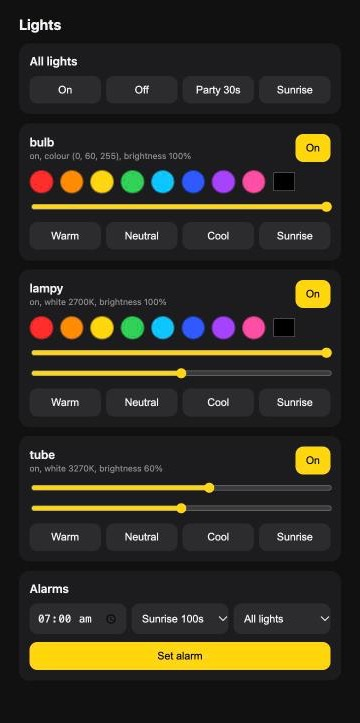
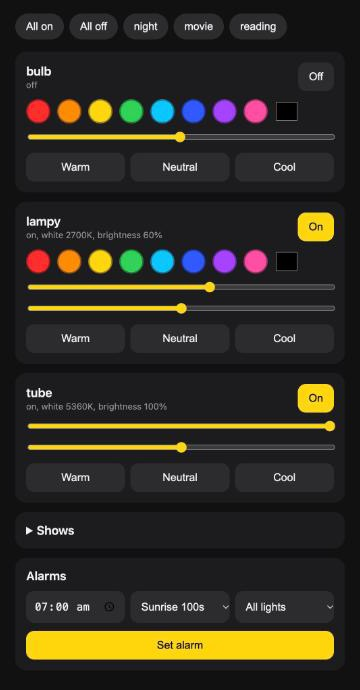
Web page: one slim row at the top, shows folded away; new screenshot

Changed region(s): [[0.0306, 0.0, 0.9472, 0.9739]]

diff --git a/lightsctl/web.html b/lightsctl/web.html
@@ -12,6 +12,11 @@
   body { margin:0; padding:16px; padding-bottom:40px; background:var(--bg); color:var(--text);
          font:16px -apple-system, system-ui, sans-serif; max-width:520px; margin-inline:auto; }
   h1 { font-size:22px; margin:8px 0 16px; }
+  .chips { display:flex; gap:8px; overflow-x:auto; margin:4px 0 16px; padding-bottom:2px; scrollbar-width:none; }
+  .chips::-webkit-scrollbar { display:none; }
+  .chips button { white-space:nowrap; border-radius:999px; padding:10px 16px; flex:none; }
+  summary { font-weight:600; font-size:18px; cursor:pointer; }
+  details[open] summary { margin-bottom:0; }
   .card { background:var(--card); border-radius:16px; padding:16px; margin-bottom:14px; }
   .head { display:flex; justify-content:space-between; align-items:center; gap:8px; }
   .name { font-weight:600; font-size:18px; }
@@ -37,21 +42,22 @@
 </style>
 </head>
 <body>
-<h1>Lights</h1>
-<div class="card">
-  <div class="head"><span class="name">All lights</span></div>
+<div class="chips" id="chips">
+  <button onclick="run('on')">All on</button>
+  <button onclick="run('off')">All off</button>
+  <span id="scenes" style="display:contents"></span>
+</div>
+<div id="running"></div>
+<div id="lights"></div>
+<details class="card">
+  <summary>Shows</summary>
   <div class="row">
-    <button onclick="run('on')">On</button>
-    <button onclick="run('off')">Off</button>
     <button onclick="run('party 30s')">Party 30s</button>
     <button onclick="run('sunrise')">Sunrise</button>
     <button onclick="run('sunset')">Sunset</button>
     <button onclick="run('pomodoro')">Pomodoro</button>
   </div>
-</div>
-<div id="scenes" class="row"></div>
-<div id="running"></div>
-<div id="lights"></div>
+</details>
 <div class="card">
   <div class="head"><span class="name">Alarms</span></div>
   <div class="row">
@@ -108,7 +114,6 @@ function card(name, state, caps) {
       <button onclick="run('${name} warm')">Warm</button>
       <button onclick="run('${name} neutral')">Neutral</button>
       <button onclick="run('${name} cool')">Cool</button>
-      <button onclick="run('${name} sunrise')">Sunrise</button>
     </div>`;
   return el;
 }
